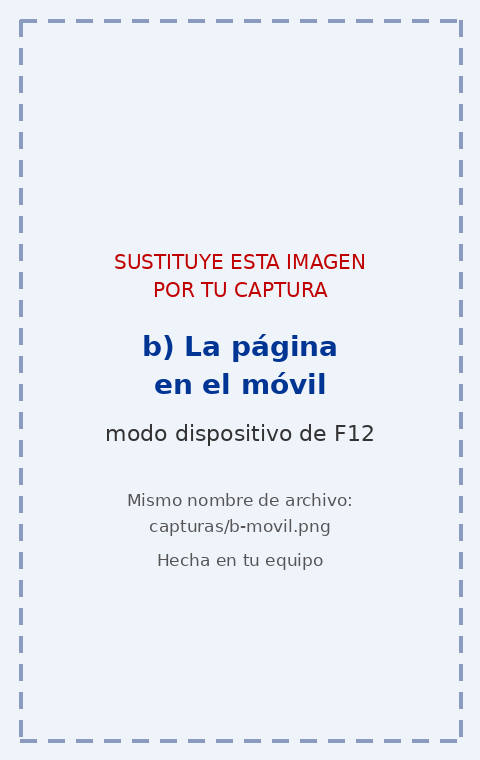
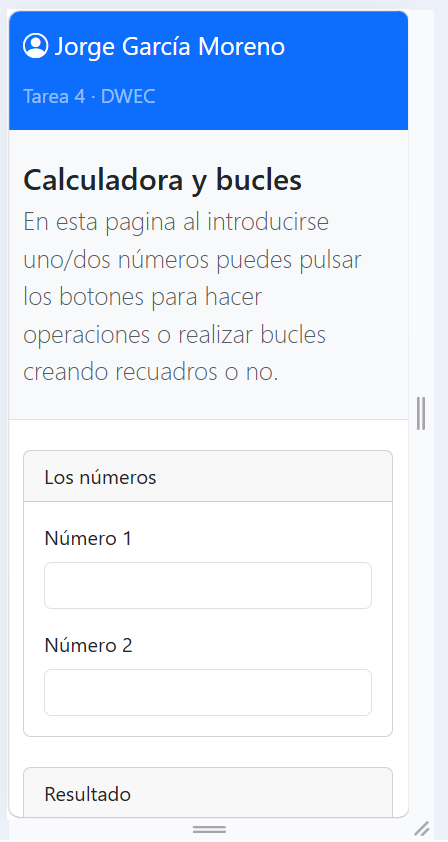
mas capturas

diff --git a/tema04/README.md b/tema04/README.md
@@ -2,7 +2,7 @@
 
 **Autor:** Jorge García Moreno · Desarrollo Web en Entorno Cliente (DWEC) · 2.º DAW · Curso 2026-27
 
-[Una o dos líneas: qué hay en esta carpeta y cómo se ve. Por ejemplo: abrir la carpeta en VS Code, pulsar **Go Live**, escribir dos números y pulsar los botones con la consola abierta (F12).]
+En esta carpera
 
 ## Capturas
 
@@ -15,6 +15,8 @@
 ### b) La página en el móvil
 
 <img src="capturas/b-movil.png" alt="La página en el modo móvil de las herramientas de desarrollo" width="300">
+<img src="capturas/b2-movil.png" alt="La página en el modo móvil de las herramientas de desarrollo" width="300">
+<img src="capturas/b3-movil.png" alt="La página en el modo móvil de las herramientas de desarrollo" width="300">
 
 [Qué cambia respecto a la pantalla grande.]
 
